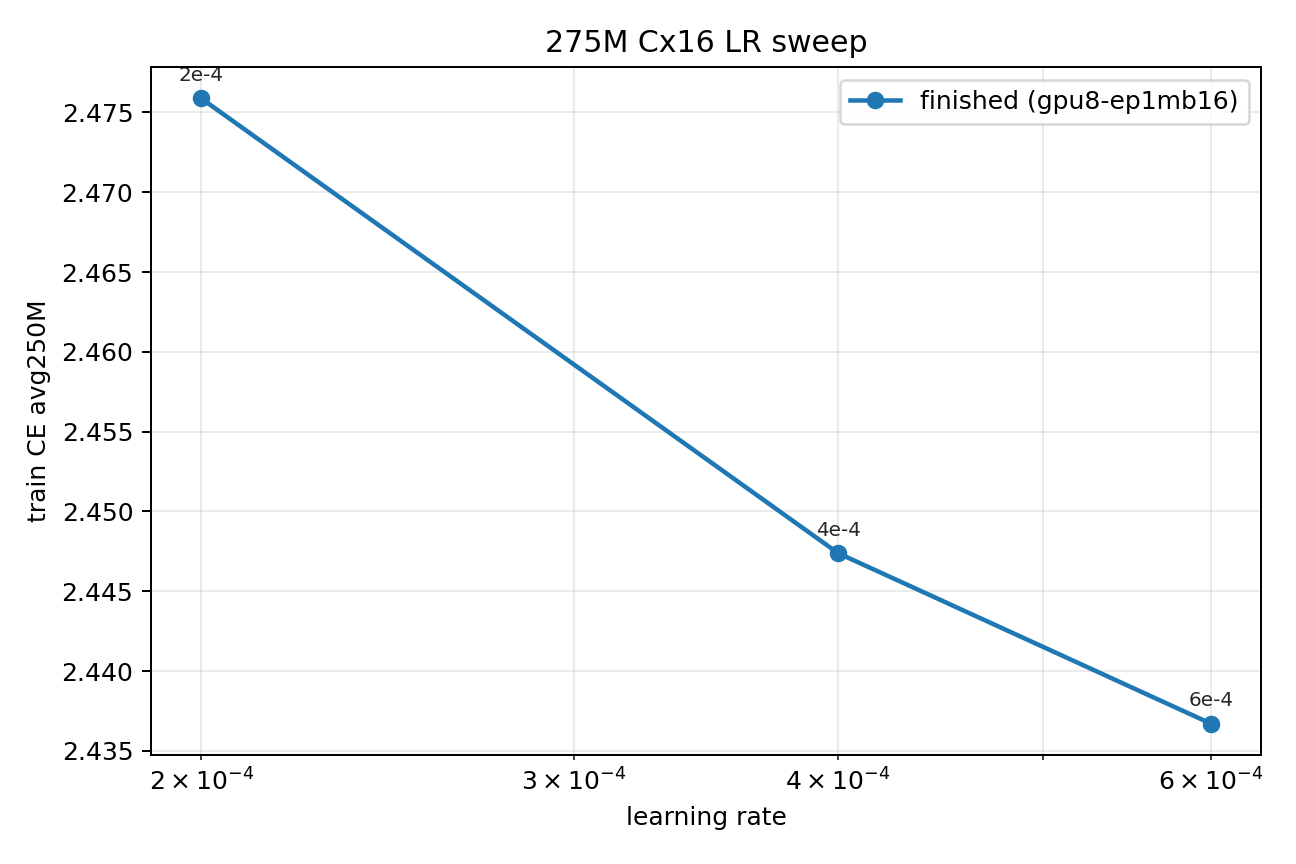
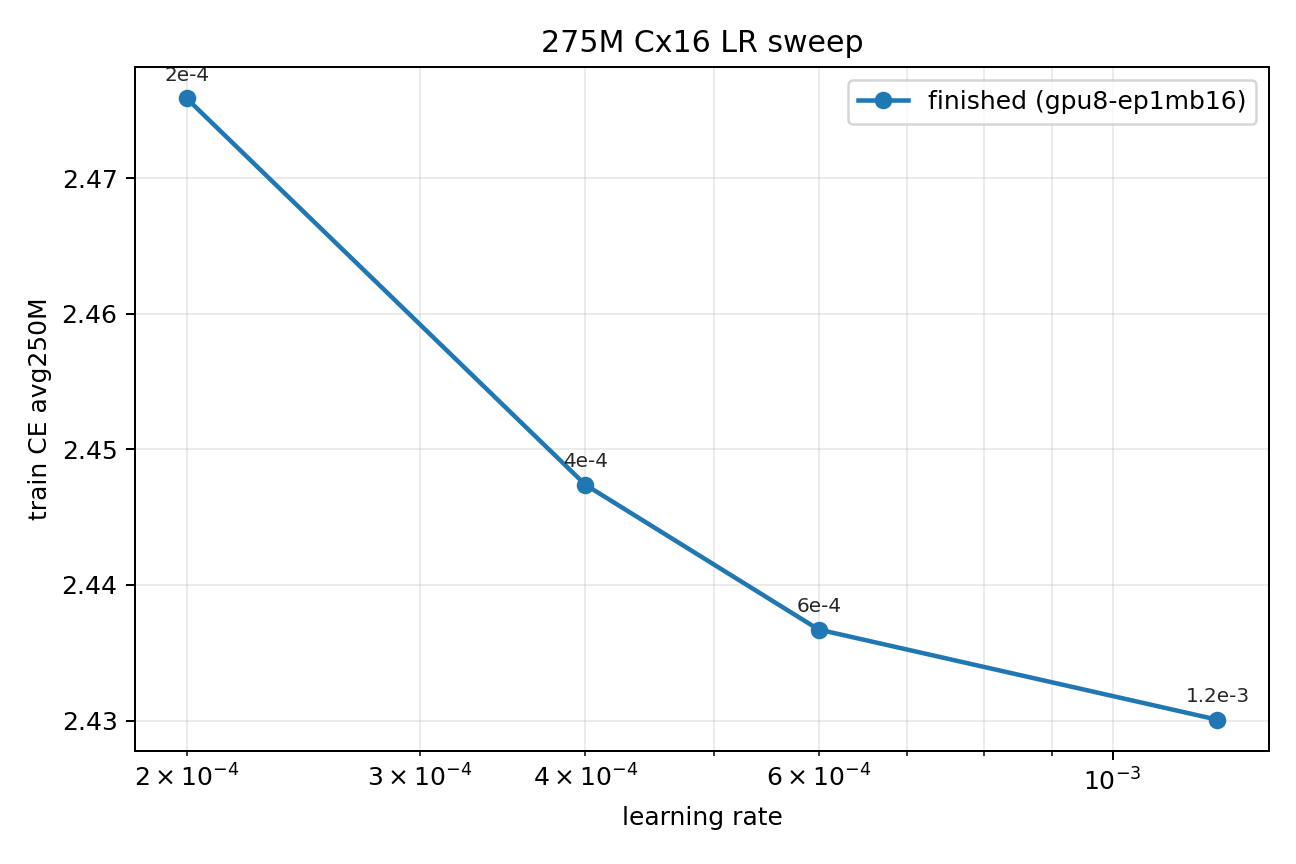
Record Cx16 extension and EP sanity results

diff --git a/src/scripts/train/jacobm_olmoe_ladder/ANALYSIS.md b/src/scripts/train/jacobm_olmoe_ladder/ANALYSIS.md
@@ -222,6 +222,19 @@ Within the current `gpu2-ep1mb16` family, the best observed Cx1 point is now
 curve is still worse than the old Cx1 family at comparable LRs, so keep treating
 Cx1 as a run-family discrepancy until the EP=8 sanity probe finishes.
 
+The EP=8 sanity probe finished with the fast legal 8-GPU microbatch setting:
+
+| LR | Family | State | avg100M | avg250M | avg500M |
+| ---: | --- | --- | ---: | ---: | ---: |
+| `1e-3` | old/original | finished | 2.7635 | 2.7657 | 2.7687 |
+| `1e-3` | `gpu2-ep1mb16` | finished | 2.7830 | 2.7852 | 2.7881 |
+| `1e-3` | `gpu8-ep8mb4` sanity | finished | 2.7649 | 2.7671 | 2.7702 |
+
+This strongly suggests the Cx1 family discrepancy is tied to EP/settings rather
+than simply microbatch size: the EP=8 sanity run lands very close to the old
+same-LR Cx1 result and much better than the EP=1 current-family rerun. Keep the
+sanity run out of LR-rule fits, but use it to interpret the run-family gap.
+
 ## 2026-06-04 Completed Cx2/Cx4 Snapshot
 
 Final completed-run summaries use final-token-window averages and ignore canceled
@@ -485,14 +498,14 @@ Cx16 completed full-run results from the canonical `r2` grid:
 | `2e-4` | finished | 61457 | 64.442 | 2.4665 | 2.4759 | 2.4744 |
 | `4e-4` | finished | 61457 | 64.442 | 2.4381 | 2.4474 | 2.4461 |
 | `6e-4` | finished | 61457 | 64.442 | 2.4274 | 2.4367 | 2.4354 |
+| `1.2e-3` | finished | 61457 | 64.442 | 2.4208 | 2.4301 | 2.4288 |
 
-The best observed completed Cx16 LR is `6e-4`, but it is the high edge of the
+The best observed completed Cx16 LR is `1.2e-3`, but it is the high edge of the
 completed grid, so the rung is not bracketed. The 3-point quadratic fit to loss
 vs log10(LR) points outside the bracket at about `1.34e-3`, so do not trust the
-fitted optimum yet. The in-flight `1.2e-3` extension later improved enough to
-look plausibly better than `6e-4` at matched final-window estimates, so launched
-a farther right-side `2.4e-3` extension. For a true order-of-magnitude sentinel,
-also launched `6e-3`:
+fitted optimum yet. Since `1.2e-3` finished better than `6e-4`, the completed
+curve is still improving at the high edge. Keep the farther right-side `2.4e-3`
+extension and true order-of-magnitude `6e-3` sentinel running to find the turn.
 
 - Cx16 `1.2e-3`, `gpu8-ep1mb16`, `r2`: `01KT9H6XQJ2GEMKPKHKPCED5B1`
 - Cx16 `2.4e-3`, `gpu8-ep1mb16`, `r2`: `01KT9Q6X0B6PG3G6ZSBZGTPSVQ`;

diff --git a/src/scripts/train/jacobm_olmoe_ladder/RUNS.md b/src/scripts/train/jacobm_olmoe_ladder/RUNS.md
@@ -73,7 +73,7 @@ experiment name.
 | 2026-06-04 | `olmoe3-tiny-275m-cx1-b256k-gpu2-ep1mb16-lr1.2e-3-r2` | `tiny_275m.py` | 1x | 262,144 | 32 | 1.2e-3 | `01KTA3X9R2PWD408NG6617M1NS` | https://beaker.org/ex/01KTA3X9R2PWD408NG6617M1NS | Current-family Cx1 cold/mid probe. Finished step 15365, avg250M 2.7843, avg500M 2.7876. 2 GPUs, EP=1, microbatch=16. |
 | 2026-06-04 | `olmoe3-tiny-275m-cx1-b256k-gpu2-ep1mb16-lr1.5e-3-r2` | `tiny_275m.py` | 1x | 262,144 | 32 | 1.5e-3 | `01KT9T7WAH2A5D2W14P9P3VF81` | https://beaker.org/ex/01KT9T7WAH2A5D2W14P9P3VF81 | Current-family Cx1 basin rerun to clean up the LR-rule plot. Finished step 15365, avg250M 2.7794, avg500M 2.7831. 2 GPUs, EP=1, microbatch=16. |
 | 2026-06-04 | `olmoe3-tiny-275m-cx1-b256k-gpu2-ep1mb16-lr2e-3-r2` | `tiny_275m.py` | 1x | 262,144 | 32 | 2e-3 | `01KT9T9F9A3VNG4YYF8B7TNS84` | https://beaker.org/ex/01KT9T9F9A3VNG4YYF8B7TNS84 | Current-family Cx1 basin rerun to clean up the LR-rule plot. Finished step 15365, avg250M 2.7765, avg500M 2.7809. 2 GPUs, EP=1, microbatch=16. |
-| 2026-06-04 | `olmoe3-tiny-275m-cx1-b256k-gpu8-ep8mb4-lr1e-3-sanity` | `tiny_275m.py` | 1x | 262,144 | 32 | 1e-3 | `01KTA98DW402AB3DJH739WBPW5` | https://beaker.org/ex/01KTA98DW402AB3DJH739WBPW5 | Diagnostic-only sanity check for the Cx1 settings-family discrepancy. Uses EP=8 with the highest legal microbatch for 8 GPUs at 256k global batch. Exclude from ladder LR fits and canonical plots. |
+| 2026-06-04 | `olmoe3-tiny-275m-cx1-b256k-gpu8-ep8mb4-lr1e-3-sanity` | `tiny_275m.py` | 1x | 262,144 | 32 | 1e-3 | `01KTA98DW402AB3DJH739WBPW5` | https://beaker.org/ex/01KTA98DW402AB3DJH739WBPW5 | Diagnostic-only sanity check for the Cx1 settings-family discrepancy. Finished step 15365, avg250M 2.7671, avg500M 2.7702. Uses EP=8 with the highest legal microbatch for 8 GPUs at 256k global batch. Exclude from ladder LR fits and canonical plots. |
 | 2026-06-03 | `olmoe3-tiny-275m-cx4-b512k-gpu4-ep1mb16-lr1e-3` | `tiny_275m.py` | 4x | 524,288 | 64 | 1e-3 | `01KT7KXYNS2CZDHVQ3THE6DGHH` | https://beaker.org/ex/01KT7KXYNS2CZDHVQ3THE6DGHH | Relaunched with partial-node settings after throughput smoke. 4 GPUs, EP=1, microbatch=16. |
 | 2026-06-03 | `olmoe3-tiny-275m-cx4-b512k-gpu4-ep1mb16-lr1.5e-3` | `tiny_275m.py` | 4x | 524,288 | 64 | 1.5e-3 | `01KT7KY3WARYXENM35PNFM9M4C` | https://beaker.org/ex/01KT7KY3WARYXENM35PNFM9M4C | Relaunched with partial-node settings after throughput smoke. 4 GPUs, EP=1, microbatch=16. |
 | 2026-06-03 | `olmoe3-tiny-275m-cx4-b512k-gpu4-ep1mb16-lr2.5e-3` | `tiny_275m.py` | 4x | 524,288 | 64 | 2.5e-3 | `01KT7KYASSEMQJY7P6P040G7ND` | https://beaker.org/ex/01KT7KYASSEMQJY7P6P040G7ND | Relaunched with partial-node settings after throughput smoke. 4 GPUs, EP=1, microbatch=16. |
@@ -207,8 +207,10 @@ Status update: the canonical Cx16 `r2` runs finished successfully on 2026-06-04.
   avg500M 2.4461.
 - Cx16 `6e-4`: finished, step 61457, 64.442B tokens, avg250M 2.4367,
   avg500M 2.4354.
+- Cx16 `1.2e-3`: finished, step 61457, 64.442B tokens, avg250M 2.4301,
+  avg500M 2.4288.
 
-The best completed Cx16 point is the high-edge `6e-4` run, so Cx16 is not yet
+The best completed Cx16 point is the high-edge `1.2e-3` run, so Cx16 is not yet
 bracketed. Launched high-side extensions:
 
 - Cx16 `1.2e-3`, `gpu8-ep1mb16`, `r2`: `01KT9H6XQJ2GEMKPKHKPCED5B1`